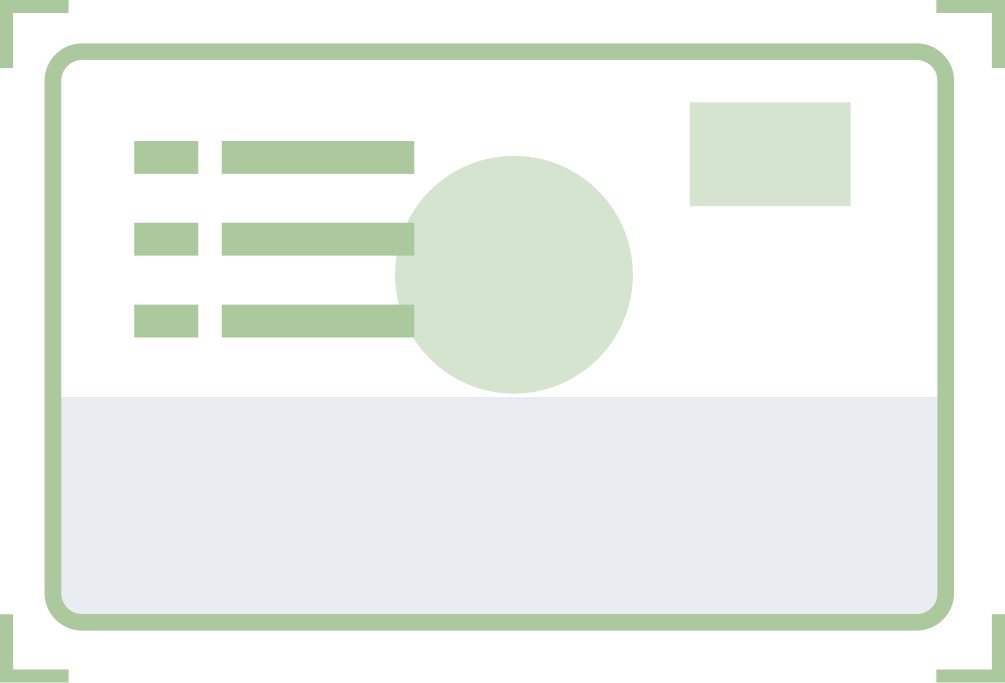
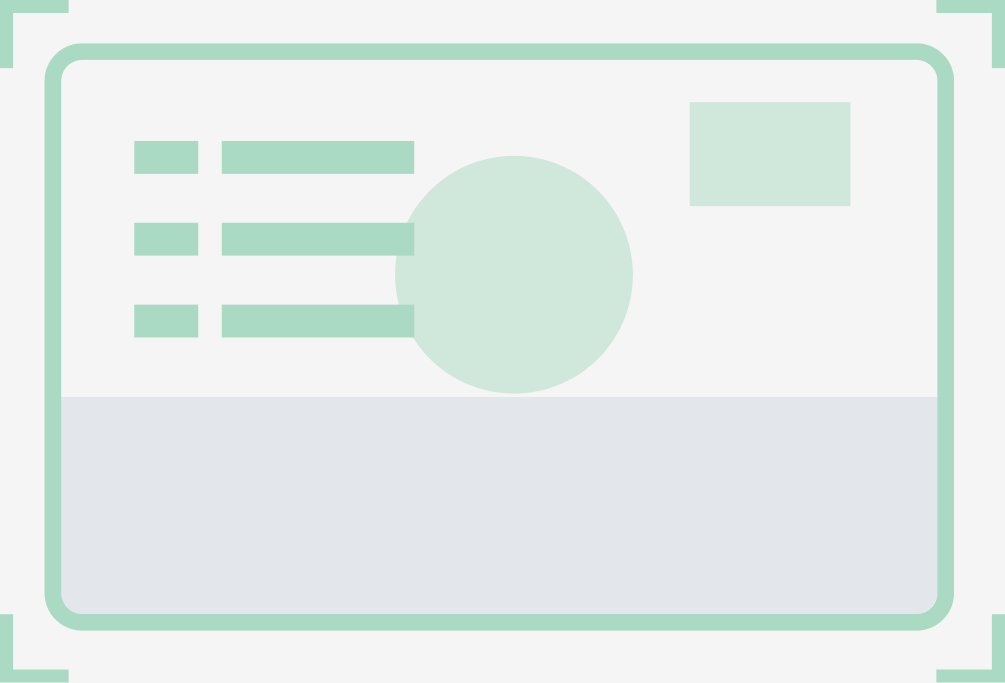
update name

diff --git a/lib/pages/fillInforma/identity_verify_page.dart b/lib/pages/fillInforma/identity_verify_page.dart
@@ -557,7 +557,7 @@ class _IdentityVerifyPageState extends ConsumerState<IdentityVerifyPage> {
 
     final pickedDate = await showDatePickerBottomSheet(
       context: context,
-      title: entry.showContent,
+      title: AppStrings.identityVerifyBirthdayPickerTitle,
       initialDate: initialDate,
       minimumDate: firstDate,
       maximumDate: now,
@@ -706,10 +706,15 @@ class _IdentityVerifyPageState extends ConsumerState<IdentityVerifyPage> {
                 controller: _scrollController,
                 thumbVisibility: true,
                 radius: const Radius.circular(8),
-                child: SingleChildScrollView(
-                  controller: _scrollController,
-                  padding: const EdgeInsets.symmetric(horizontal: 20),
-                  child: Column(
+                child: GestureDetector(
+                  behavior: HitTestBehavior.translucent,
+                  onTap: _clearFormTextFocus,
+                  child: SingleChildScrollView(
+                    controller: _scrollController,
+                    keyboardDismissBehavior:
+                        ScrollViewKeyboardDismissBehavior.onDrag,
+                    padding: const EdgeInsets.symmetric(horizontal: 20),
+                    child: Column(
                     children: [
                       const SizedBox(height: 16),
                       const IdentityCheckNotice(),
@@ -758,6 +763,7 @@ class _IdentityVerifyPageState extends ConsumerState<IdentityVerifyPage> {
                       const SizedBox(height: 20),
                     ],
                   ),
+                ),
                 ),
               ),
         bottomNavigationBar: LoanBottomActionButton(

diff --git a/lib/core/constants/app_strings.dart b/lib/core/constants/app_strings.dart
@@ -5,7 +5,7 @@ class AppStrings {
 
   // ==================== App ====================
   // ==================== 通用组件文本 ====================
-  static const String appTitle = 'Easy Moni';
+  static const String appTitle = 'Prime Cedi Loan';
   static const String continueStr = 'Continue';
   static const String back = 'Back';
   static const String cancel = 'Cancel';
@@ -13,7 +13,7 @@ class AppStrings {
   static const String goSettings = 'Go to Settings';
   // ==================== KYC流程 ====================
   static const String privacyData = 'Privacy Policy';
-  static const String wellcome = 'Welcome to Easy Moni';
+  static const String wellcome = 'Welcome to Prime Cedi Loan';
   static const String wellcomedeailData =
       'Manage your credit, get funds faster, and borrow with confidence—all in one place.';
   static const String phoneStr = 'Mobile Money Number';
@@ -154,6 +154,7 @@ class AppStrings {
   static const String identityVerifyOcrFailed = 'ID recognition failed.';
   static const String identityVerifySaveFailed = 'Submission failed.';
   static const String identityVerifyEdit = 'Edit';
+  static const String identityVerifyBirthdayPickerTitle = 'Date of Birth';
   static const String confirmOwnerData = 'Please verify yourself';
   static const String standard = 'Standard shooting';
   static const String toolBright = 'Too bright';
